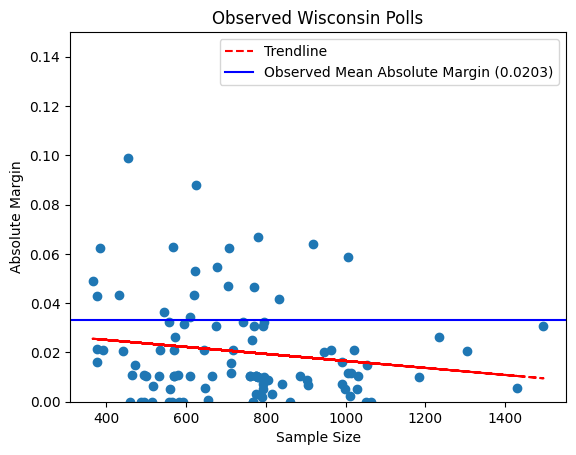
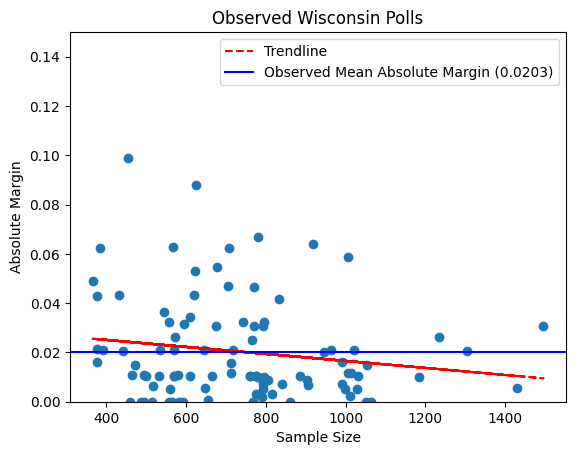
Fix Wisconsin observed margins chart

Changed region(s): [[0.125, 0.7692, 0.9688, 0.8], [0.125, 0.6769, 0.9688, 0.7077]]

diff --git a/_posts/2024-11-05-polling-margins.md b/_posts/2024-11-05-polling-margins.md
@@ -50,7 +50,7 @@ and the mean absolute margin for this universe of polls is:
 $$ \frac{0.05 + 0.02 + 0.03}{3} \approx 0.03333333333 $$
 
 
-Here's what the actual polls[^4] in real world Wisconsin done by real pollsters look like:
+Here's what the actual polls[^4] in real world Wisconsin done by real pollsters look like:[^5]
 
 <img alt="Wisconsin observed polling margins" src="/images/poll_margins/wisconsin_observed_margins.png">
 
@@ -158,4 +158,10 @@ therefore should be very *un*certain about the outcome of this race.
       pollsters, I have assumed that he himself is not consciously or unconsciously selecting specifically for closer
       polls in swing states. But technically, he or his blog staff could be responsible for 100% of the apparent
       herding if they are doing this!
+
+[^5]: This figure in a previous version of this blog post had the observed mean absolute margin at completely the wrong
+      value (just in the chart, not in the text of the blog post). A helpful
+      Redditor [pointed this out](https://www.reddit.com/r/fivethirtyeight/comments/1gk3ers/comment/lvlgf3n/) to me and
+      I corrected this around 2024-11-05T21:59 UTC. I show the full, transparent edit history of my entire website on
+      [this GitHub repo](https://github.com/boyleconnor/boyleconnor.github.io).
 
